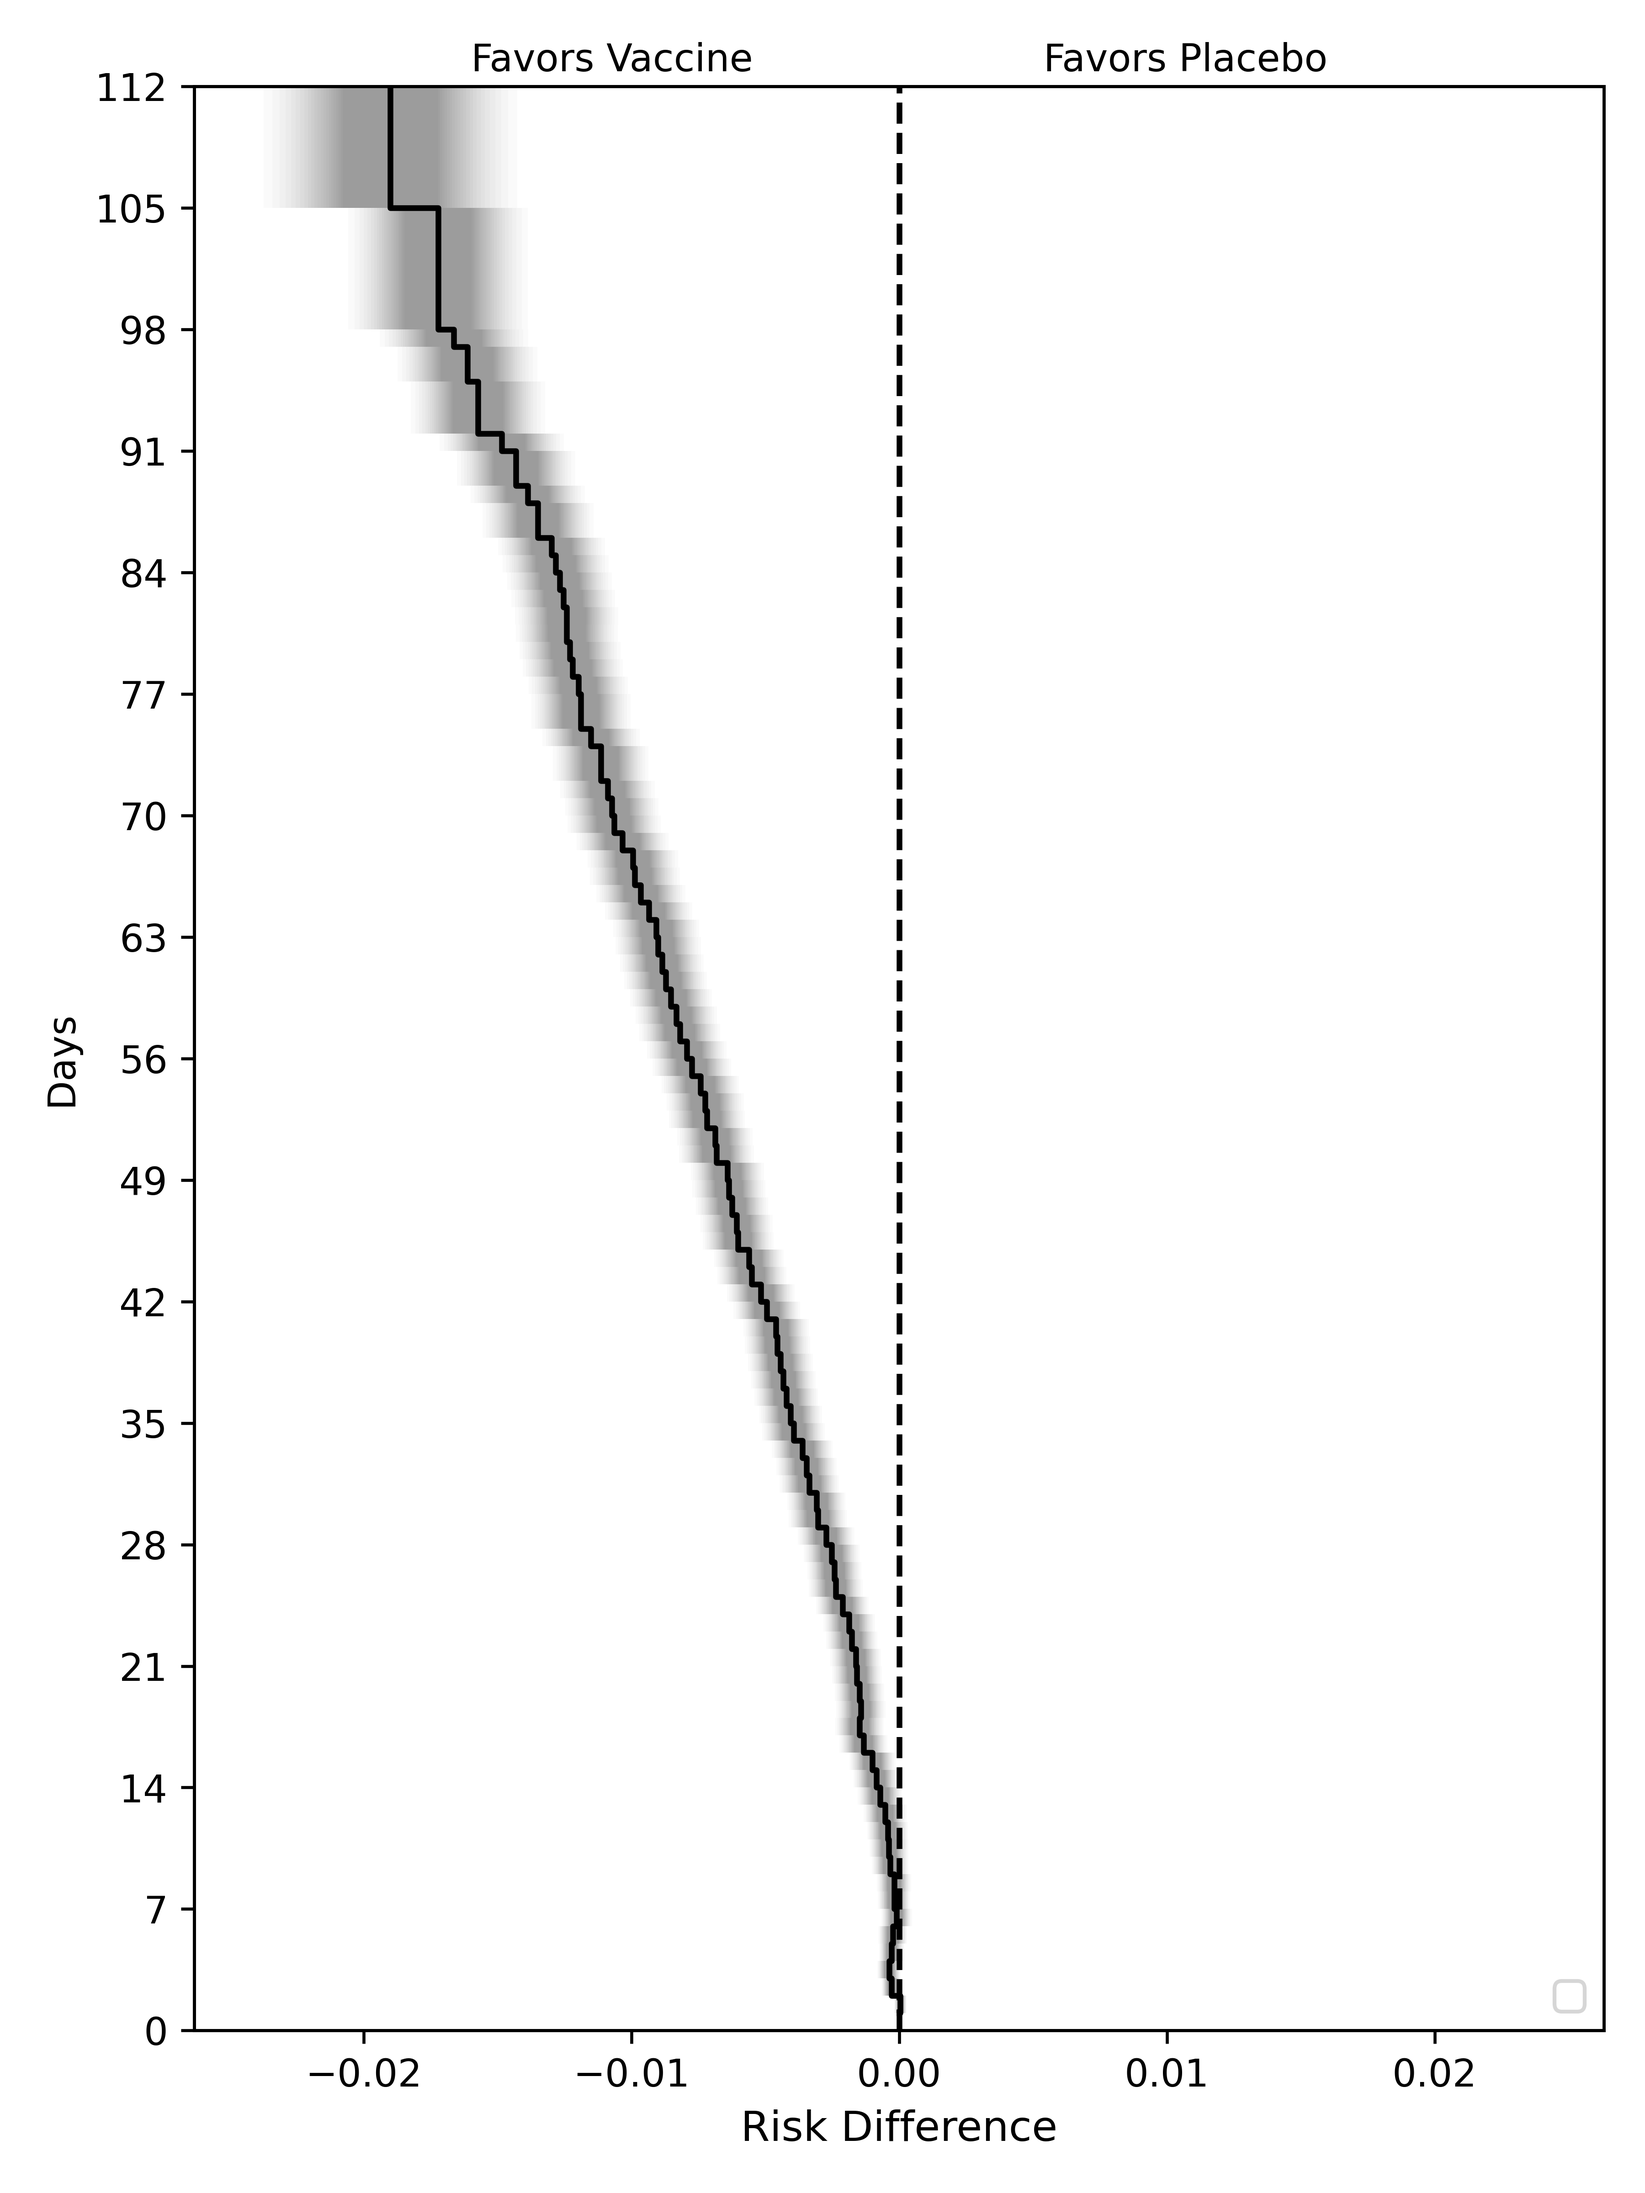
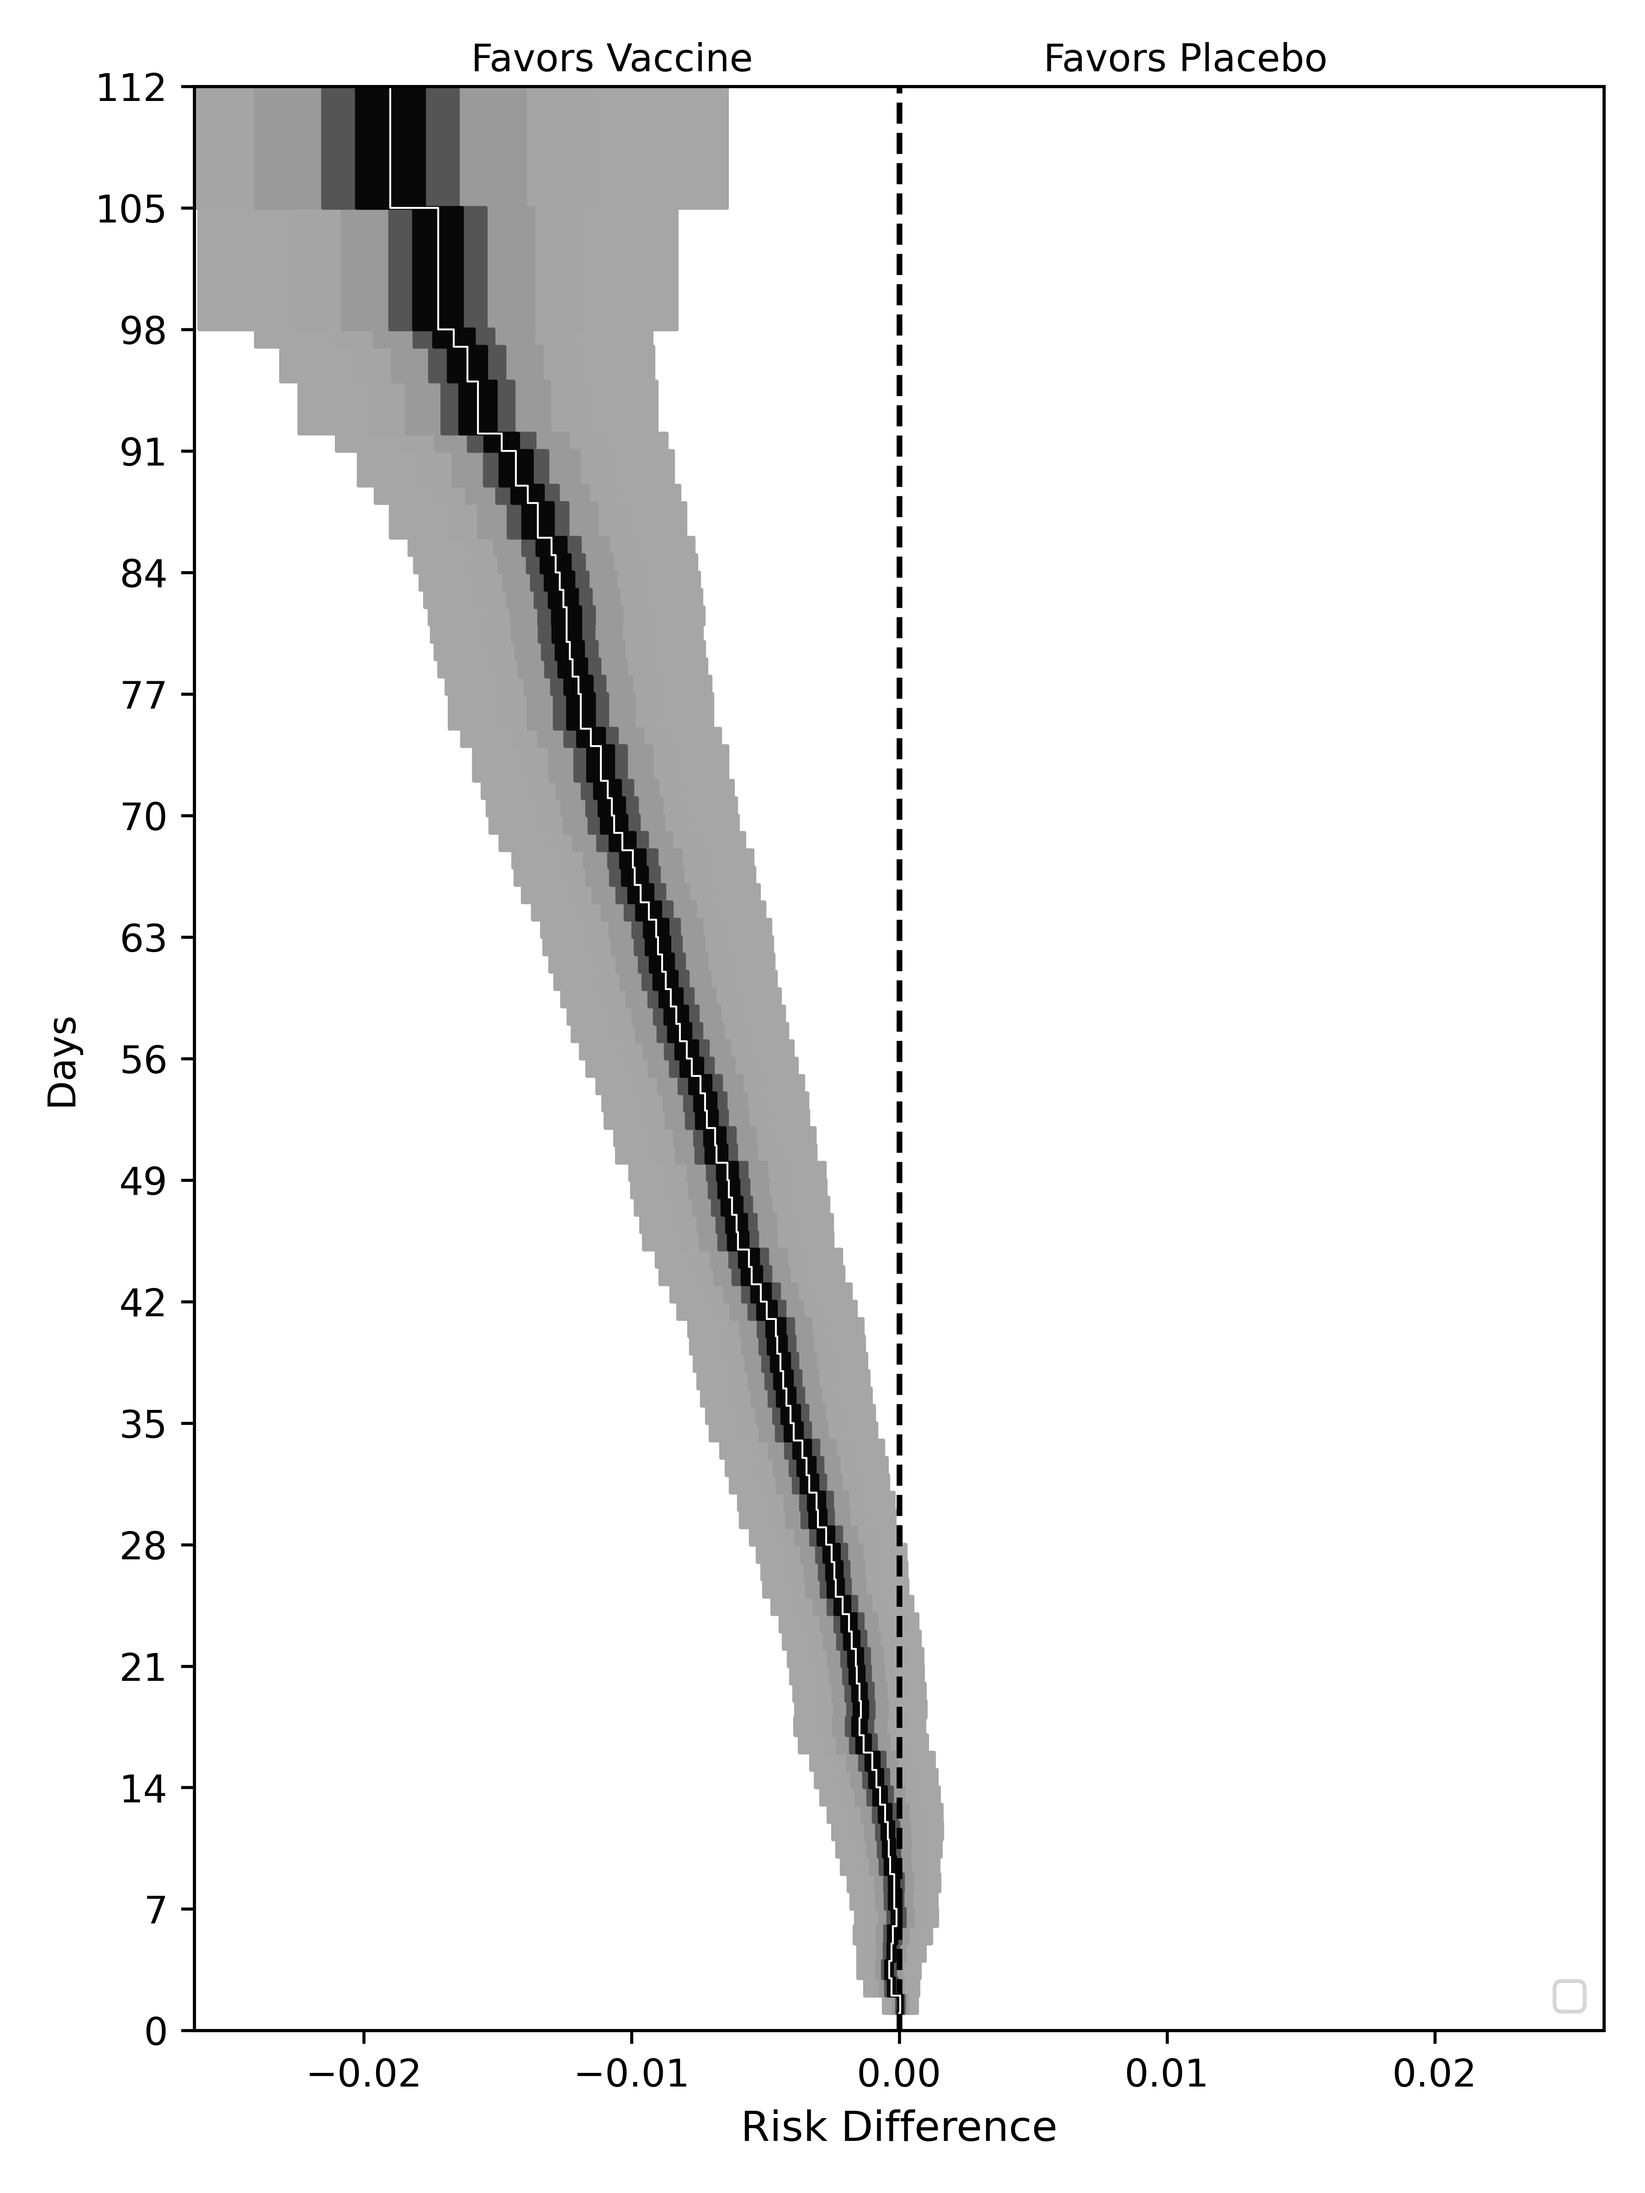
Updated shading structure for clearer communication?

Changed region(s): [[0.0933, 0.0312, 0.5911, 0.9375]]

diff --git a/sierra_plots/sierra_plot_alpha.py b/sierra_plots/sierra_plot_alpha.py
@@ -1,7 +1,8 @@
 ########################################################################################################################
-# Twister Plots
+# Sierra Plots
 #
 # Paul Zivich (2021/5/19)
+# Mark Klose (2021/9/16)
 ########################################################################################################################
 
 # Importing required dependencies
@@ -10,13 +11,12 @@ import pandas as pd
 import matplotlib.pyplot as plt
 import matplotlib
 from scipy.stats import norm, lognorm
-import seaborn as sns
 
 
 # Function that takes a query point and returns LCL and UCL for that percentile based on a risk-difference distribution (normal)
 def norm_rd(
     query: float, location: pd.Series, scale: pd.Series
-) -> tuple[pd.Series, pd.Series]:
+) -> tuple[pd.Series, pd.Series]:  # something up with type hinting right now
 
     (q0, q1) = norm.interval(query, loc=location, scale=scale)
     pd_q0 = pd.Series(q0).fillna(0)
@@ -27,7 +27,7 @@ def norm_rd(
 # Function that takes a query point and returns LCL and UCL for that percentile based on a risk-difference distribution (lognormal)
 def norm_rr(
     query: float, location: pd.Series, scale: pd.Series
-) -> tuple[pd.Series, pd.Series]:
+) -> tuple[pd.Series, pd.Series]:  # something up with type hinting right now
     # There is 100% a way to do this with lognormal, but I do not know enough.
     # Extract information from given location and bastardized "sd"
     df = pd.DataFrame()
@@ -116,15 +116,29 @@ def sierra_plot(
     df["sd"] = (data[ucl] - data[xvar]) / 1.96
 
     # loop through as many steps as needed
-
+    cmap = plt.get_cmap("gist_gray")
     # # # Functionally not needed, but helps Shaded step function for Risk Difference confidence intervals
-    STEP = 0.02
-    for a in np.arange(0.50, 0.95, STEP):
+    STEP = -0.01
 
-        (df[a], df[1 - a]) = interval_func(a, location=df[xvar], scale=df["sd"])
+    # for a in np.arange(0.999, 0.001, STEP):
+    for a in (
+        0.999999426696856,  # 5 SD
+        0.999936657516334,  # 4 SD
+        0.997300203936740,  # 3 SD
+        0.954499736103642,  # 2 SD
+        0.682689492137086,  # 1 SD
+        0.382924922548026,  # 0.5 SD
+    ):
+        (df[a], df[2 - a]) = interval_func(a, location=df[xvar], scale=df["sd"])
         ax.fill_betweenx(
-            df[yvar], df[1 - a], df[a], facecolor="k", alpha=STEP, step="post"
+            df[yvar],
+            df[2 - a],
+            df[a],
+            color=cmap(a),
+            alpha=1.1 - a,  # guarantees at least 0.1 alpha
+            step="post",
         )
+
     # Step function for Risk Difference
     ax.step(
         data[xvar],  # Risk Difference column
@@ -132,8 +146,9 @@ def sierra_plot(
         .shift(-1)
         .ffill(),  # time column (shift is to make sure steps occur at correct t
         # label="RD",  # Sets the label in the legend
-        color="k",  # Sets the color of the line (k=black)
+        color="w",  # Sets the color of the line (k=black)
         where="post",
+        lw=0.5,
     )
 
     # Draw reference

diff --git a/sierra_plots/make_plots.py b/sierra_plots/make_plots.py
@@ -6,15 +6,15 @@ from sierra_plot_alpha import sierra_plot, norm_rd, norm_rr
 ##########################
 # Setup data
 # Reading in data
-data = pd.read_csv("data_twister.csv")  # .csv read in and managed using pandas
+data = pd.read_csv("fake_data.csv")  # .csv read in and managed using pandas
 
 ##########################
 # Example: Difference
 ax = sierra_plot(
     data,
     xvar="RD",
-    lcl="RD_LCL",
-    ucl="RD_UCL",
+    lcl="RD_LCL_fake",
+    ucl="RD_UCL_fake",
     yvar="t",
     treat_labs=["Vaccine", "Placebo"],
     interval_func=norm_rd,
@@ -26,7 +26,7 @@ ax.set_yticks([i for i in range(0, 113, 7)])  # Sets the y-axes tick marks
 
 plt.tight_layout()  # Sets spacing of the border of the plot
 plt.savefig(
-    "sierra_plot_python.png", format="png", dpi=600
+    "sierra_plot_python_rd.png", format="png", dpi=600
 )  # Saves the generated figure as .png
 plt.show()  # displays the generated image
 
@@ -51,5 +51,29 @@ ax.set_xticks([0.1, 0.25, 1, 5, 10])  # Sets the x-axes tick marks
 ax.set_xticklabels(["0.10", "0.25", "1", "5", "10"])
 
 plt.tight_layout()  # Sets spacing of the border of the plot
-# plt.savefig("twister_plot_python.png", format='png', dpi=600)  # Saves the generated figure as .png
+plt.savefig(
+    "sierra_plot_python_rr.png", format="png", dpi=600
+)  # Saves the generated figure as .png
+plt.show()  # displays the generated image
+
+##########################
+# Example: "True" RD
+ax = sierra_plot(
+    data,
+    xvar="RD",
+    lcl="RD_LCL",
+    ucl="RD_UCL",
+    yvar="t",
+    treat_labs=["Vaccine", "Placebo"],
+    interval_func=norm_rd,
+)
+
+# Formatting the axes and labels
+ax.legend(loc="lower right")  # Added legend to the lower right corner of the plot
+ax.set_yticks([i for i in range(0, 113, 7)])  # Sets the y-axes tick marks
+
+plt.tight_layout()  # Sets spacing of the border of the plot
+plt.savefig(
+    "sierra_plot_python.png", format="png", dpi=600
+)  # Saves the generated figure as .png
 plt.show()  # displays the generated image

diff --git a/Meetings.md b/Meetings.md
@@ -1,5 +1,54 @@
 # Meetings.MD
 
+## Sep 16th meeting
+    - Review of Sierra Plots
+        - Questions from last time:
+            - Always normally distributed? NO
+        - Generalizable when given function, take in mean+sd+point query (aka could give uniform distribution = Twister plot)
+        - Not 100% vectorized
+    - TODO: documentation, more generalizable
+    - Questions:
+        - Confirm: risk difference has normal distribution, risk ratio has lognormal distribution/pseudo lognormal?
+        - What other distributions are possible/wanted?
+
+    - Next steps: 
+
+    - Data Scrapping/Intro to Internet:
+        - HTTP requests/how is data sent over websites?
+        - Scrape data based on that?
+        - How to find elgible websites/examples? (aka not Tableau IIRC)
+
+        - Focus on survival functions!/figures/back data out from there
+        - Epi focus on data when deciding to collect/how to collect it (wrong timeframe type deal)
+
+    - Classes:
+        - Baric: material super advanced
+        - CS Minor? 
+            - Pros: combine with research, capability to do so, crossover knowledge, expect to use later, fellowship opportunities?
+            - Cons: extended classes into 4th year realistically (1/semester * 5 semesters), one course subset not perfect
+
+## Next steps 9/16:
+    - Letter: summarizing of alternative ways to express confidence intervals, break away from interval+point paradigm/understanding?
+        - Expected pushback: how to decide shaded at what point?
+            - 
+    - Screwups: 0.5--> .95 not truly representative 
+    - Descent of gradient sharper? 
+        - Triple standard error for working for example
+        - So maybe in cases with low SE, this plot not best option?
+    - Make graph --> go SUPER far out (.9999 -> 4 SE), add lines for 95% confidence interval
+        - Increase SE for example? (Another dataset/false dataset?)
+        - Check another colormap
+        - Output as .eps file for AJE (does not support transparencies) more NOTE
+            - Colormap to get color specifically
+
+    - Case: plateau --> set of answers given data/design complex. If case, have black line if ridge, plateau = no line
+
+    - Attributable Fraction --> 2003 Greenland+  ---> Simulation to get CLimits. What happens with varying values of 'a'. Sharpness of probability known/unknown
+        - Delta Method (Taylor Series expansion other ways)
+        - Closed form analytic, simulation approach
+
+    - Before: assumed constant across W (same population), but what if population changes, W different in two settings (transportability/generalizability problem)
+
 ## Agenda:
     - Ultimate purpose:
         - SER workshop? Deadline September 10th? NOT FOR ME. 
